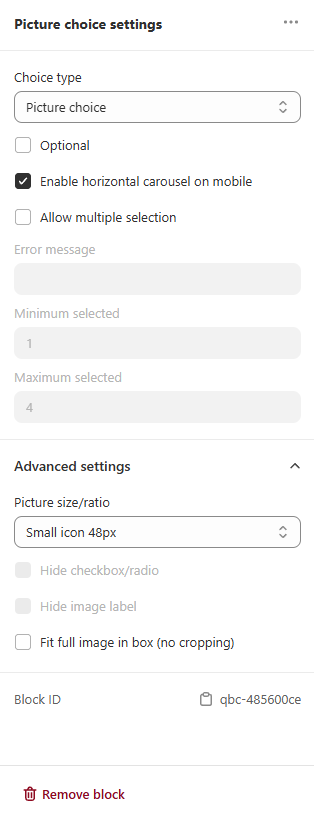
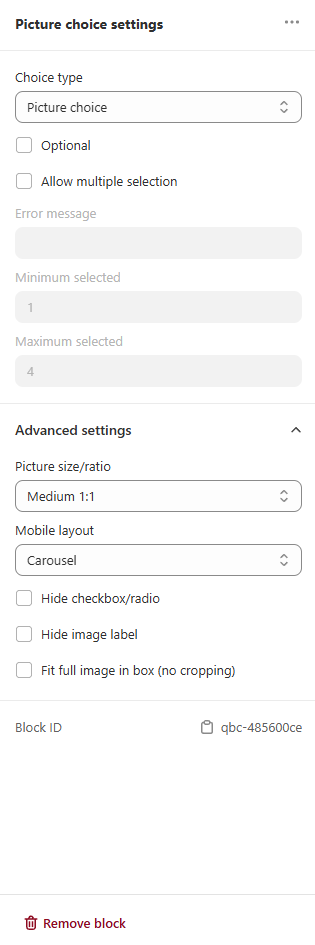
docs: update question picture choice settings in app manual

diff --git a/docs/reference/quiz-builder/questions.md b/docs/reference/quiz-builder/questions.md
@@ -812,13 +812,17 @@
 
     `Optional` - Make a question optional (no answer needs to be give to proceed to the next question).
 
-    `Enable horizontal carousel on mobile` - If checked, allows users to scroll picture options horizontally on mobile devices.
-
-    `Allow multiple selection` - Allow for more than one answer to be selected in this block. Checking this option opend the `Minimum selected` and `Maximum selected` settings. `Minimum selected` - minimum number of choices that need to be seelcted in order to proceed to the next question. `Maximum selected`- maxiumum number of choices that can to be selected, otherwise it will no tbe possible to move on to the next question.
+    `Allow multiple selection` - Allow for more than one answer to be selected in this block. Checking this option opens the `Error message`, `Minimum selected` and `Maximum selected` settings. `Minimum selected` - minimum number of choices that need to be seelcted in order to proceed to the next question. `Maximum selected`- maxiumum number of choices that can to be selected, otherwise it will no tbe possible to move on to the next question.`Error message` - add a message to the user if they select too many options.
 
     `Advanced settings` - Opens the advanced choice settings menu.
 
-    `Picture size/ratio` - Choose the picture size for this block. Choose between Tiny icon (24px), Small icon (48px), Medium (1:1) or Large (4:3) picture size.
+    `Picture size/ratio` - Choose the picture size for this block. Choose between `Tiny icon (24px)`, `Small icon (48px)`, `Medium (1:1)` or `Large (4:3)` picture size. 
+
+    ![docs/images/manual_shopifyV2_quizbuilder_quizbuilder_questions_blocksettings_picturechoice_picturesizeratio.png](/images/manual_shopifyV2_quizbuilder_quizbuilder_questions_blocksettings_picturechoice_picturesizeratio.png)
+    
+    If you select `Medium (1:1)` in the `Picture size/ratio` dropdown, an additional option for chosing a `Mobile layout` will appear. There you can choose how this block will be displayed on mobile devices - either as a `Carousel`, `One per row` or `Two per row`.
+
+    ![manual_shopifyV2_quizbuilder_quizbuilder_questions_blocksettings_picturechoice_mobilelayout](/images/manual_shopifyV2_quizbuilder_quizbuilder_questions_blocksettings_picturechoice_mobilelayout.png)
 
     `Hide checkbox/radio` - When checked hides the checkbox element from picture choices.
 
